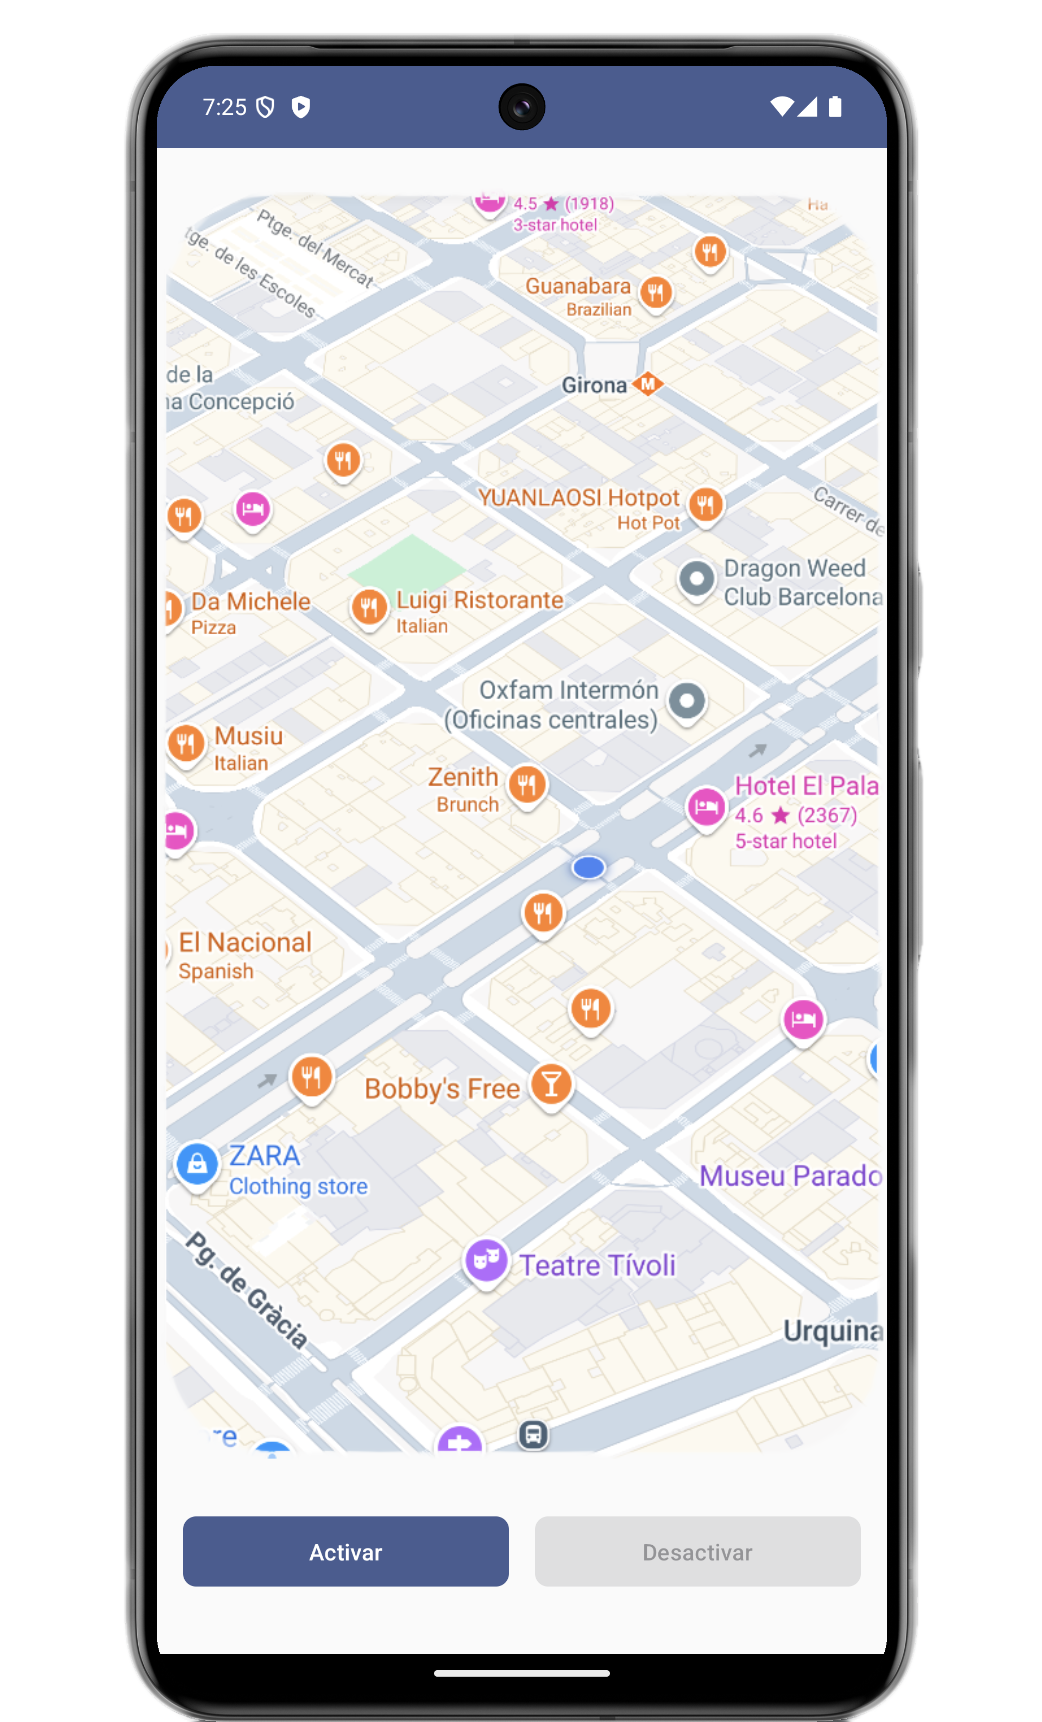
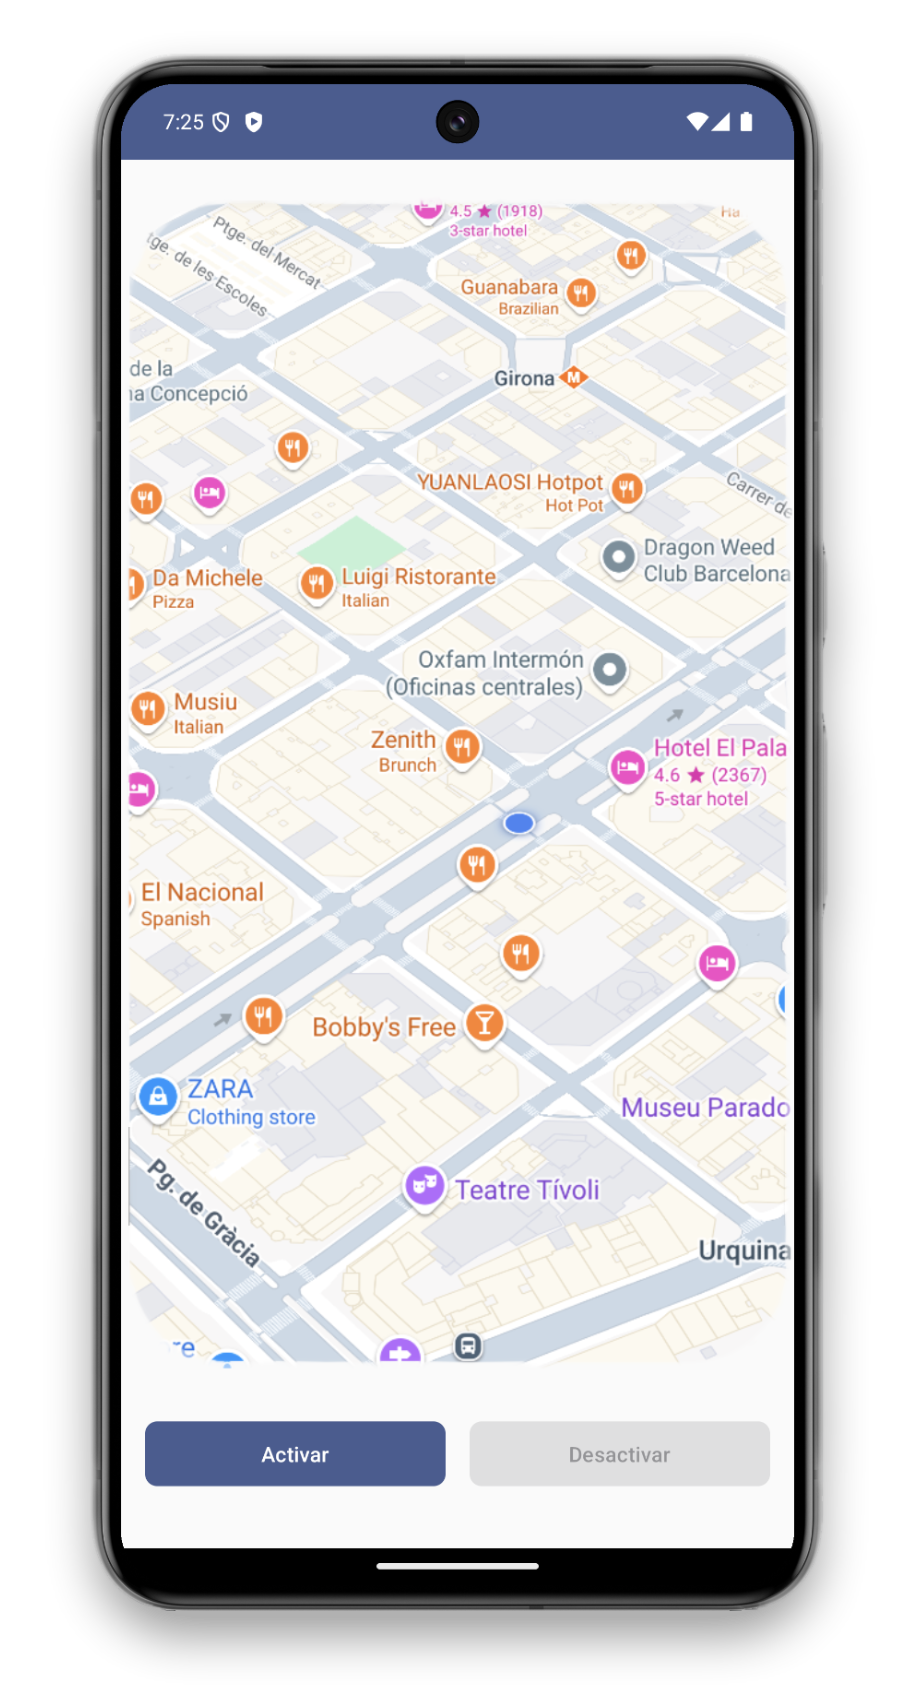
modify photos

diff --git a/pages/index.js b/pages/index.js
@@ -54,7 +54,7 @@ export default function Home() {
   if (!isMounted) return null; // Renderiza null hasta que esté montado
 
   const handleCopy = () => {
-    const textToCopy = '[email redacted]';
+    const textToCopy = '[email redacted]';
 
     navigator.clipboard
       .writeText(textToCopy)
@@ -200,7 +200,7 @@ export default function Home() {
                   src="/GeoTrackAnd.png"
                   alt="Jordi Aguilera"
                   width={300}
-                  height={124}
+                  height={300}
                 />
               </div>
             </a>
@@ -222,6 +222,14 @@ export default function Home() {
                   Web de monitorio de los activos de Field Service.{' '}
                 </p>
               </div>
+              <div className="flex items-center justify-center">
+                <Image
+                  src="/GeoView.png"
+                  alt="Jordi Aguilera"
+                  width={600}
+                  height={600}
+                />
+              </div>
             </a>
 
             <a
@@ -230,15 +238,6 @@ export default function Home() {
               target="_blank"
               rel="noopener noreferrer"
             >
-              <div className="flex items-center justify-center">
-                <Image
-                  className="mb-3"
-                  src="/MiStock.png"
-                  alt="Jordi Aguilera"
-                  width={124}
-                  height={124}
-                />
-              </div>
               <h2 className={`mb-3 text-2xl font-semibold`}>
                 MiStock{' '}
                 <span className="inline-block transition-transform group-hover:translate-x-1 motion-reduce:transform-none">
@@ -249,6 +248,15 @@ export default function Home() {
                 <p className={`m-0 max-w-[30ch] text-sm opacity-50`}>
                   App de Power Apps para gestionar inventarios.
                 </p>
+              </div>
+              <div className="flex items-center justify-center">
+                <Image
+                  className="mb-3"
+                  src="/MiStock.png"
+                  alt="Jordi Aguilera"
+                  width={300}
+                  height={300}
+                />
               </div>
             </a>
           </div>
@@ -569,14 +577,21 @@ export default function Home() {
             >
               <div>
                 <svg
-                  xmlns="http://www.w3.org/2000/svg"
                   width="48"
                   height="48"
-                  viewBox="0 0 32 32"
-                  preserveAspectRatio="xMidYMid"
-                  fill="#8cc84b"
+                  viewBox="0 0 71 80"
+                  fill="none"
+                  xmlns="http://www.w3.org/2000/svg"
                 >
-                  <path d="M14.656.427c.8-.453 1.82-.455 2.6 0L29.2 7.16c.747.42 1.247 1.253 1.24 2.114v13.5c.005.897-.544 1.748-1.332 2.16l-11.88 6.702a2.6 2.6 0 0 1-2.639-.073l-3.565-2.06c-.243-.145-.516-.26-.688-.495.152-.204.422-.23.642-.32.496-.158.95-.4 1.406-.656.115-.08.256-.05.366.022l3.04 1.758c.217.125.437-.04.623-.145l11.665-6.583c.144-.07.224-.222.212-.38V9.334c.016-.18-.087-.344-.25-.417L16.19 2.244a.41.41 0 0 0-.465-.001L3.892 8.93c-.16.073-.27.235-.25.415v13.37c-.014.158.07.307.215.375l3.162 1.785c.594.32 1.323.5 1.977.265a1.5 1.5 0 0 0 .971-1.409l.003-13.29c-.014-.197.172-.36.363-.34h1.52c.2-.005.357.207.33.405L12.18 23.88c.001 1.188-.487 2.48-1.586 3.063-1.354.7-3.028.553-4.366-.12l-3.4-1.88c-.8-.4-1.337-1.264-1.332-2.16v-13.5a2.46 2.46 0 0 1 1.282-2.141L14.656.427zM18.1 9.785c1.727-.1 3.576-.066 5.13.785 1.203.652 1.87 2.02 1.892 3.358-.034.18-.222.28-.394.267-.5-.001-1.002.007-1.504-.003-.213.008-.336-.188-.363-.376-.144-.64-.493-1.273-1.095-1.582-.924-.463-1.996-.44-3.004-.43-.736.04-1.527.103-2.15.535-.48.328-.624 1-.453 1.522.16.383.603.506.964.62 2.082.544 4.287.5 6.33 1.207.845.292 1.672.86 1.962 1.745.378 1.186.213 2.604-.63 3.556-.684.784-1.68 1.2-2.675 1.442-1.323.295-2.695.302-4.038.17-1.263-.144-2.577-.476-3.552-1.336-.834-.724-1.24-1.852-1.2-2.94.01-.184.193-.312.37-.297h1.5c.202-.014.35.16.36.35.093.6.322 1.25.854 1.6 1.026.662 2.313.616 3.487.635.973-.043 2.065-.056 2.86-.7.42-.367.543-.98.43-1.508-.123-.446-.6-.653-1-.8-2.055-.65-4.285-.414-6.32-1.15-.826-.292-1.625-.844-1.942-1.693-.443-1.2-.24-2.687.693-3.607.9-.915 2.22-1.268 3.47-1.394z" />
+                  <g clipPath="url(#clip0_337_7891)" fill="#5FA04E">
+                    <path d="M35.625 79.5c-1.081 0-2.09-.288-3.028-.792l-9.59-5.686c-1.442-.792-.721-1.08-.289-1.224 1.947-.648 2.308-.792 4.327-1.944.216-.144.504-.072.72.072l7.356 4.391c.288.144.649.144.865 0l28.77-16.628c.289-.144.433-.431.433-.791V23.714c0-.36-.144-.648-.432-.792L35.986 6.366c-.288-.144-.65-.144-.865 0L6.35 22.922c-.29.144-.434.504-.434.792v33.184c0 .287.145.647.433.791l7.86 4.535c4.254 2.16 6.922-.36 6.922-2.879V26.593c0-.432.36-.864.865-.864h3.678c.432 0 .865.36.865.864v32.752c0 5.687-3.1 8.998-8.509 8.998-1.658 0-2.956 0-6.633-1.8l-7.572-4.319A6.073 6.073 0 0 1 .798 56.97V23.786a6.073 6.073 0 0 1 3.028-5.255l28.77-16.628c1.804-1.008 4.255-1.008 6.058 0l28.77 16.628a6.073 6.073 0 0 1 3.029 5.255V56.97a6.073 6.073 0 0 1-3.029 5.254l-28.77 16.628c-.865.36-1.947.648-3.029.648Z" />
+                    <path d="M44.567 56.682c-12.62 0-15.215-5.759-15.215-10.654 0-.432.36-.864.865-.864h3.75c.433 0 .793.288.793.72.577 3.815 2.235 5.687 9.879 5.687 6.057 0 8.652-1.368 8.652-4.607 0-1.871-.72-3.24-10.167-4.175-7.86-.792-12.762-2.52-12.762-8.782 0-5.83 4.903-9.285 13.123-9.285 9.23 0 13.772 3.167 14.35 10.077 0 .216-.073.432-.217.648-.144.144-.36.288-.577.288h-3.822a.844.844 0 0 1-.793-.648c-.865-3.96-3.1-5.255-9.013-5.255-6.634 0-7.427 2.304-7.427 4.031 0 2.088.937 2.736 9.879 3.887 8.869 1.152 13.05 2.808 13.05 8.998 0 6.335-5.263 9.934-14.348 9.934Z" />
+                  </g>
+                  <defs>
+                    <clipPath id="clip0_337_7891">
+                      <path fill="#fff" d="M0 .5h71v79H0z" />
+                    </clipPath>
+                  </defs>
                 </svg>
               </div>
               <h2 className="text-1xl font-semibold text-center lg:text-left">
@@ -804,7 +819,7 @@ export default function Home() {
 
             <Link
               href="mailto:[email redacted]"
-              className="flex-shrink-0 px-0 py-0 group rounded-lg grid place-content-center"
+              className="relative flex-shrink-0 px-0 py-0 group rounded-lg grid place-content-center"
             >
               <svg
                 xmlns="http://www.w3.org/2000/svg"
@@ -821,15 +836,19 @@ export default function Home() {
                 <path d="M4.698 4.034l16.302 7.966l-16.302 7.966a.503 .503 0 0 1 -.546 -.124a.555 .555 0 0 1 -.12 -.568l2.468 -7.274l-2.468 -7.274a.555 .555 0 0 1 .12 -.568a.503 .503 0 0 1 .546 -.124z"></path>
                 <path d="M6.5 12h14.5"></path>
               </svg>
-              <span className="absolute top-0 left-1/2 transform -translate-x-1/2 -translate-y-12 px-4 py-2 rounded-xl bg-white text-black w-32 transition-opacity duration-200 ease-out opacity-0 group-hover:opacity-100 text-center">
-                Enviar email
+
+              <span
+                id="tooltip-email"
+                className="absolute top-0 left-1/2 transform -translate-x-1/2 -translate-y-12 px-4 py-2 rounded-xl bg-white text-black w-32 transition-opacity duration-200 ease-out opacity-0 group-hover:opacity-100 text-center"
+              >
+                Enviar Mail
               </span>
             </Link>
 
             <button
               id="button-copy-email"
               onClick={handleCopy}
-              className="flex-shrink-0 px-0 py-0 group rounded-lg grid place-content-center"
+              className="relative flex-shrink-0 px-0 py-0 group rounded-lg grid place-content-center"
             >
               <svg
                 xmlns="http://www.w3.org/2000/svg"
@@ -852,12 +871,12 @@ export default function Home() {
               >
                 Copiar email
               </span>
+              {copied && (
+                <div className="absolute top-[-2rem] left-1/2 transform -translate-x-1/2 bg-green-500 text-white px-4 py-2 rounded-lg shadow-md text-center">
+                  ¡Texto copiado!
+                </div>
+              )}
             </button>
-            {copied && (
-              <div className="absolute top-0 align-middle bg-green-500 text-white px-4 py-2 rounded-lg shadow-md">
-                ¡Texto copiado!
-              </div>
-            )}
           </div>
         </div>
       </footer>